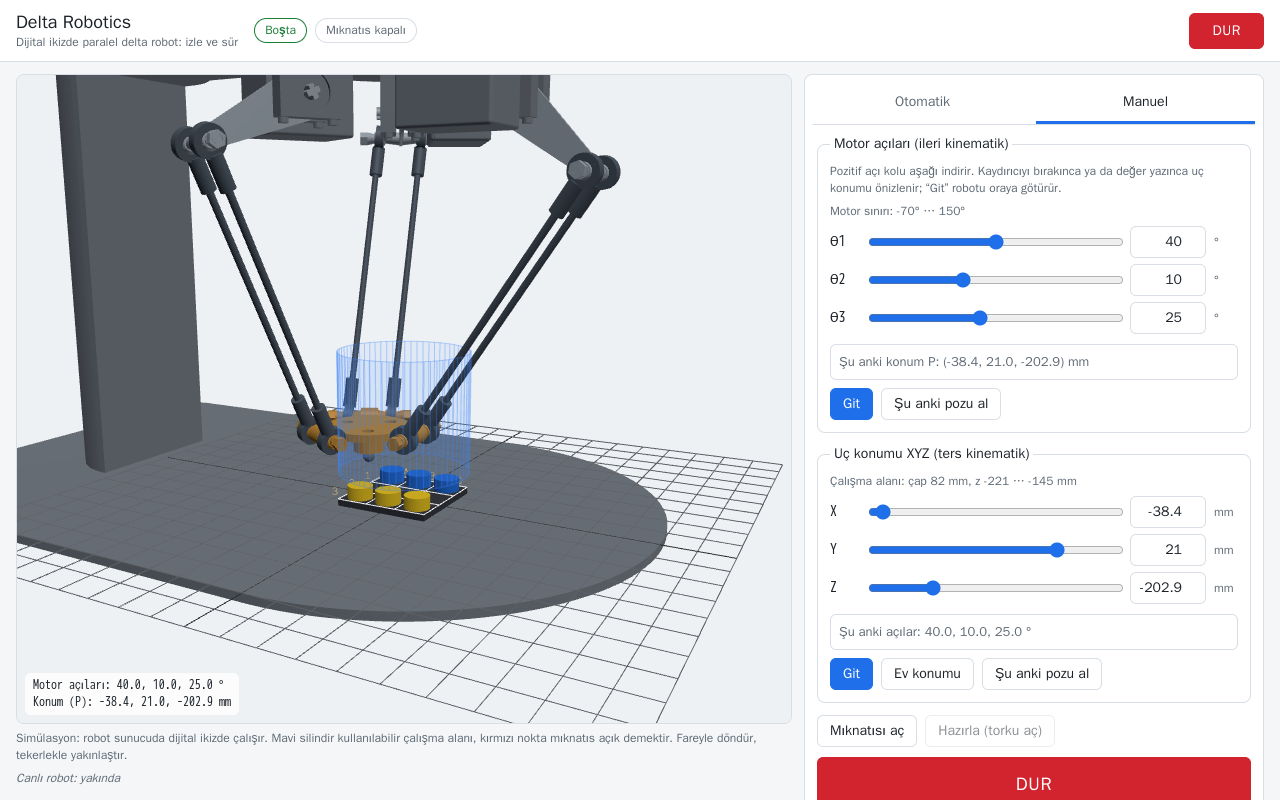
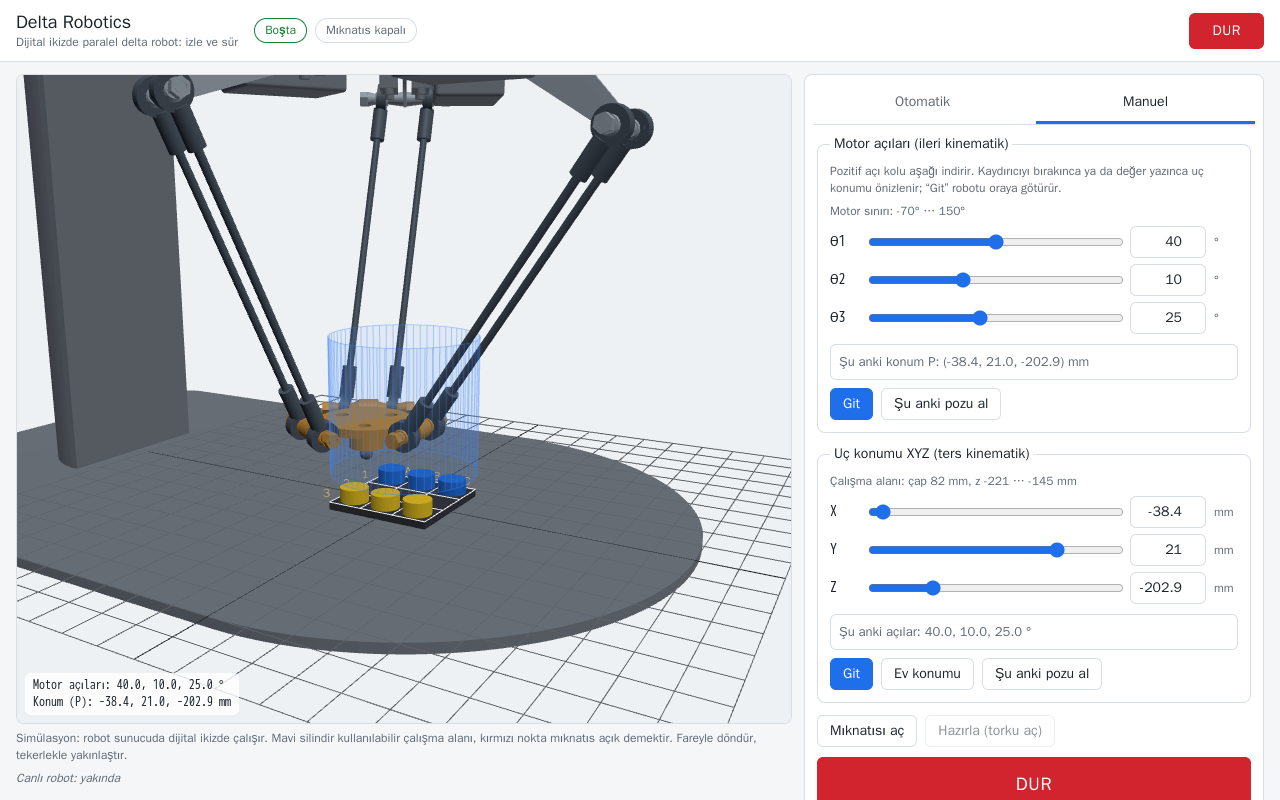
DeltaRobotV2 F6 tamam: tek sayfalık deneyim arayüzü (otomatik tic-tac-toe + manuel FK/IK)
- web/: üyeliksiz tek sayfa; anonim oturum, 3B ikiz (CAD mesh), Otomatik (başlat/durdur/sıfırla,
  hamle listesi, tabla şeması) ve Manuel (motor açısı kaydırıcıları -> FK, XYZ -> IK, Git, DUR)
- Playwright uçtan uca (tests/ui/, konteynerde): gerçek simülasyon API'sine karşı 11/11
- Ekran görüntüleri gerçek simülasyondan: web/screenshots/otomatik.png, manuel.png
- Sahte sunucu F6 sözleşmesine güncellendi (kinematik ve kapı Python portu, delta_core ile eşleşir)
- demo profili: IP başına oturum sınırı ve simülasyon hızı ortamdan ayarlanabilir

diff --git a/DeltaRobotV2/web/js/twin.js b/DeltaRobotV2/web/js/twin.js
@@ -41,12 +41,12 @@ export class Twin {
     this.scene = new THREE.Scene();
     this.camera = new THREE.PerspectiveCamera(40, 1, 1, 5000);
     this.camera.up.set(0, 0, 1);
-    this.camera.position.set(260, -470, -60);
+    this.camera.position.set(240, -410, -70);
     this.renderer = new THREE.WebGLRenderer({ antialias: true });
     this.renderer.setPixelRatio(Math.min(window.devicePixelRatio, 2));
     container.appendChild(this.renderer.domElement);
     this.controls = new OrbitControls(this.camera, this.renderer.domElement);
-    this.controls.target.set(0, 0, -175);
+    this.controls.target.set(0, 0, -180);
     this.controls.update();
 
     this.scene.add(new THREE.HemisphereLight(0xffffff, 0x404050, 1.4));

diff --git a/DeltaRobotV2/api/delta_api/main.py b/DeltaRobotV2/api/delta_api/main.py
@@ -13,6 +13,7 @@ Ortam değişkenleri:
   DELTA_SIM_TIME_SCALE simülasyon oynatma hızı çarpanı (varsayılan 1 = gerçek zaman)
   DELTA_SIM_MAX_SESSIONS   eşzamanlı ziyaretçi oturumu üst sınırı (varsayılan 50)
   DELTA_SIM_IDLE_TIMEOUT_S boşta oturumun silinme süresi (varsayılan 600 s)
+  DELTA_SIM_SESSIONS_PER_IP_MIN IP başına dakikada yeni oturum (varsayılan 10; testte artırılır)
   DELTA_RUNNER_MAX_JOBS koşucunun eşzamanlı iş kapasitesi (koşucudaki değerle aynı)
 """
 
@@ -60,6 +61,7 @@ def build():
             limits=Limits(
                 max_sessions=int(env.get("DELTA_SIM_MAX_SESSIONS", "50")),
                 idle_timeout_s=float(env.get("DELTA_SIM_IDLE_TIMEOUT_S", "600")),
+                sessions_per_ip_per_min=int(env.get("DELTA_SIM_SESSIONS_PER_IP_MIN", "10")),
             ),
         )
         backend = None

diff --git a/DeltaRobotV2/web/README.md b/DeltaRobotV2/web/README.md
@@ -1,22 +1,26 @@
-# web/ — tarayıcı arayüzü (F4)
+# web/ — deneyim arayüzü (F6)
 
-Derleme adımı olmayan tek sayfa uygulama. API bu klasörü `/` altında statik sunar; sözleşme [`docs/api.md`](../docs/api.md).
+Derleme adımı olmayan, üyeliksiz tek sayfa: ziyaretçi açılışta anonim simülasyon oturumu alır (`POST /api/v1/session`, belirteç bellekte/sessionStorage'da, 401'de sessizce yenilenir) ve sunucudaki dijital ikizi izler ve sürer. **Otomatik** sekmesi: robot kendi kendine kaydırmalı tic-tac-toe oynar (Başlat/Durdur/Sıfırla, durum, sıra, sonuç, hamle listesi). **Manuel** sekmesi: motor açısı kaydırıcıları (FK önizleme, `/move_joints`) ve XYZ girişleri (IK önizleme, `/move`); iki grup hareketten sonra canlı pozu izler. Sözleşme [`docs/api.md`](../docs/api.md) ("F6 deneyim arayüzü").
 
 ## Dosyalar
 
-| Yol                     | İçerik                                                                         |
-| ----------------------- | ------------------------------------------------------------------------------ |
-| `index.html`            | Sayfa iskeleti, import map (three.js 0.160.0), CodeMirror 5.65.16 (jsDelivr)   |
-| `css/style.css`         | Düzen (1280 px'de üç sütun, telefonda tek sütun), açık/koyu tema               |
-| `js/main.js`            | Giriş, telemetri WS, elle sürme, kod editörü + iş konsolu                      |
-| `js/api.js`             | REST (Bearer) ve WS (`?token=`) yardımcıları; belirteç `localStorage`'da       |
-| `js/i18n.js`            | `/i18n/tr.json` kataloğu; eksik anahtar anahtarın kendisi olarak görünür       |
-| `js/twin.js`            | Dijital ikiz: CAD mesh'leri telemetrideki açılar ve P ile pozlanır             |
-| `examples/baslangic.py` | Editördeki başlangıç örneği (`delta_robot` istemcisi)                          |
-| `dev/mock_server.py`    | Sahte API (yalnız standart kütüphane): statik dosyalar + REST + WS             |
-| `tests/`                | JS çalıştırmadan denetimler (i18n anahtarları, sabit CDN sürümleri, sahte API) |
+| Yol                     | İçerik                                                                                  |
+| ----------------------- | --------------------------------------------------------------------------------------- |
+| `index.html`            | Sayfa iskeleti (ikiz + iki sekme), import map (three.js 0.160.0, jsDelivr)              |
+| `css/style.css`         | Düzen (masaüstünde ikiz + panel, 900 px altı tek sütun), açık/koyu tema                 |
+| `js/main.js`            | Oturum, telemetri WS, tabla yoklama (~4 Hz), otomatik ve manuel mod, Dur                |
+| `js/api.js`             | REST (Bearer) ve WS (`?token=`) yardımcıları, anonim oturum ve 401 yenileme             |
+| `js/i18n.js`            | `/i18n/<dil>.json` kataloğu (`?lang=en`); eksik anahtar anahtarın kendisi görünür       |
+| `js/twin.js`            | Dijital ikiz: CAD mesh'leri, tabla + taşlar + hücre adları; `window.__twinPose` kancası |
+| `examples/baslangic.py` | F4 kod editörü örneği (bu sayfa göstermez; istemci belgesi için korunur)                |
+| `dev/mock_server.py`    | Sahte API (standart kütüphane): F6 oturumları, FK/IK + 1. kapı, otomatik oyun           |
+| `tests/`                | JS çalıştırmadan denetimler (i18n, sabit CDN, sayfa yapısı, sahte API)                  |
 
-Tüm görünür metinler `i18n/locales/tr.json`'daki `web.*` ve `robot.state.*` anahtarlarından gelir.
+Hücre adları: sütun A–C soldan sağa (−X → +X), satır 1–3 +Y'den −Y'ye; `idx = satır·3 + sütun` → A1 = 0, B2 = 4, C3 = 8. X 1. satırda, O 3. satırda başlar.
+
+Uçtan uca testler: [`tests/ui/`](../tests/ui/run.sh) (Playwright, konteynerde; varsayılan sahte API, `UI_BASE_URL` ile gerçek API).
+
+Tüm görünür metinler `i18n/locales/tr.json`'daki (çevirisi `en.json`) `web.*` ve `robot.state.*` anahtarlarından gelir.
 
 ## Dijital ikiz
 
@@ -31,8 +35,8 @@ MSYS_NO_PATHCONV=1 docker run --rm --name deltarobotv2-webmock -p 127.0.0.1:8765
   python3 web/dev/mock_server.py --host 0.0.0.0 --port 8765
 ```
 
-Tarayıcıda `http://localhost:8765/`, belirteç `dev-token`. Sahte sunucu kullanıcı kodunu çalıştırmaz; başlangıç örneğindeki kalıpları küçük bir AST yorumlayıcısıyla taklit eder.
+Tarayıcıda `http://localhost:8765/` (`#otomatik` / `#manuel`). Seçenekler: `--speed` (hareket hızı çarpanı), `--sessions-per-ip`, `--max-sessions`, `--idle-timeout`, `--max-moves`. Sahte sunucu kullanıcı kodunu çalıştırmaz; F4 işlerini küçük bir AST yorumlayıcısıyla taklit eder.
 
 Testler: `MSYS_NO_PATHCONV=1 docker compose run --rm dev python3 -m pytest -p no:cacheprovider web/tests`
 
-Ekran görüntüsü: [`screenshots/ui.png`](screenshots/ui.png)
+Ekran görüntüleri (Playwright, 1280×800): [`screenshots/otomatik.png`](screenshots/otomatik.png), [`screenshots/manuel.png`](screenshots/manuel.png)
